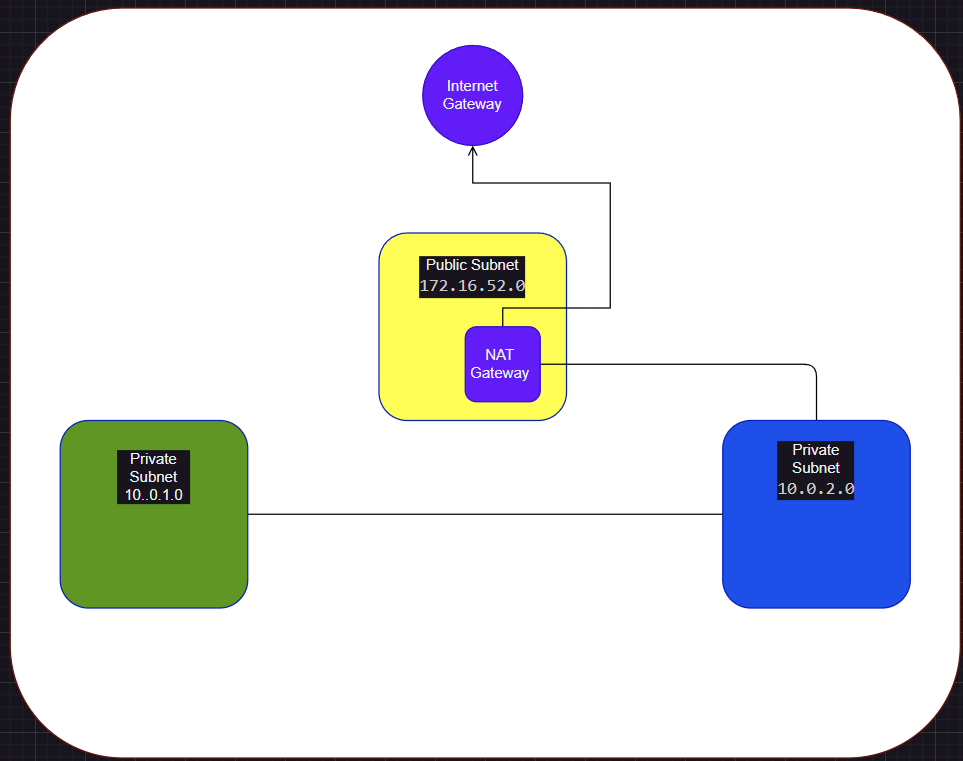
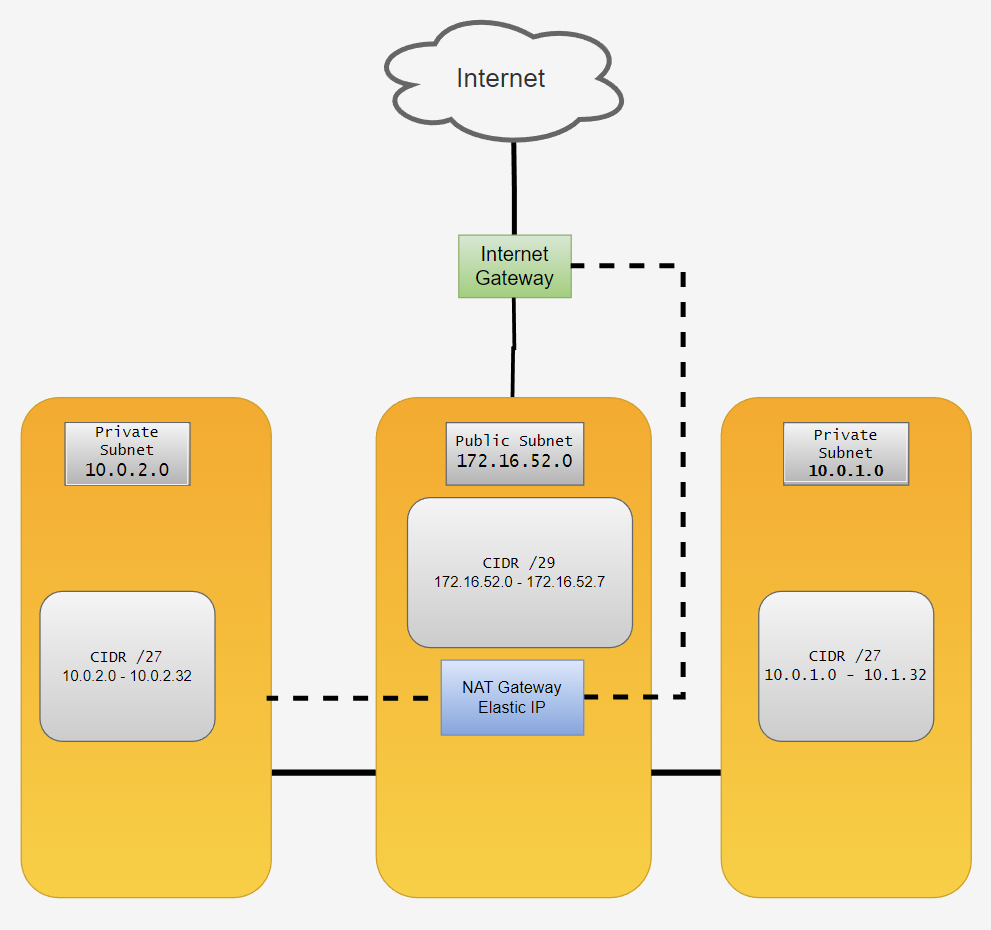
Small changes

diff --git a/Networking/NTW-06.md b/Networking/NTW-06.md
@@ -73,7 +73,7 @@ Deze heeft 32 mogelijke adressen:
 - Broadcastadres: 10.0.1.31
 - Hosts: 10.0.1.1 - 10.0.1.30
  
-Dit netwerk is in het diagram met groen gekleurd.
+Dit netwerk heeft een vaste connectie naar de andere delen van het LAN.
 
  **Tweede subnet**  
 *"1 private subnet dat internet toegang heeft via een NAT gateway. Dit subnet moet minimaal 30 hosts kunnen plaatsen (de 30 hosts is exclusief de NAT gateway)."* 
@@ -87,8 +87,8 @@ In deze neem ik het subnet 10.0.2.0/27, en deze heeft 32 mogelijke adressen:
 - Broadcastadres: 10.0.2.31
 - Hosts: 10.0.2.1 - 10.0.2.31
 
+Dit netwerk heeft een vaste connectie naar de andere delen van het LAN, maar ook een indirecte, one-way connectie met het internet via het NAT Gateway.
 
-Dit netwerk is in het diagram met blauw gekleurd.
 
  **Derde Subnet**  
 *"1 public subnet met een internet gateway. Dit subnet moet minimaal 5 hosts kunnen plaatsen (de 5 hosts is exclusief de internet gateway)"* 
@@ -97,14 +97,14 @@ In deze leeft het Internet Gateway buiten de subnets en heeft deze een eigen EIP
 
 Voor een Public IP adres geldt dat deze verkregen wordt door de ISP; in deze is dat AWS en ik neem hiervoor het 172.16.52.63/16 adres.
 
-In deze moet het Public subnet 8 adressen groot zijn en dus minimaal een /29 netwerk.  
-In deze is het dus het 172.16.52.0 subnet en deze heeft deze 8 mogelijke adressen: 
+In deze moet het Public subnet 7 adressen groot zijn en dus minimaal een /29 netwerk met 8 nodes.  
+In deze is het dus het 172.16.52.0/29 subnet en deze heeft deze 8 mogelijke adressen: 
 - 172.16.52.0 - 172.16.52.7
 - Netwerkadres: 172.16.52.0
 - Broadcastadres: 172.16.52.7
 - Hosts: 172.16.52.1 - 172.16.52.6
 
-Dit netwerk is in het diagram met geel gekleurd.
+
 
 ## Het diagram:
 

diff --git a/Networking/SEC-01.md b/Networking/SEC-01.md
@@ -18,5 +18,7 @@ De opdracht vraag het volgende:
 # Resultaat
 
 *"1: Scan the network of your Linux machine using nmap. What do you find?"* 
+Nmap moet eerst worde geinstalleerd; dit gaat via **sudo apt install nmap -y**.
+Om met nmap het netwerk te scannen kan je nmap [IP ADRES] opgeven als commando.
 
 *"2: Open Wireshark in Windows/MacOS Machine. Analyse what happens when you open an internet browser."*
